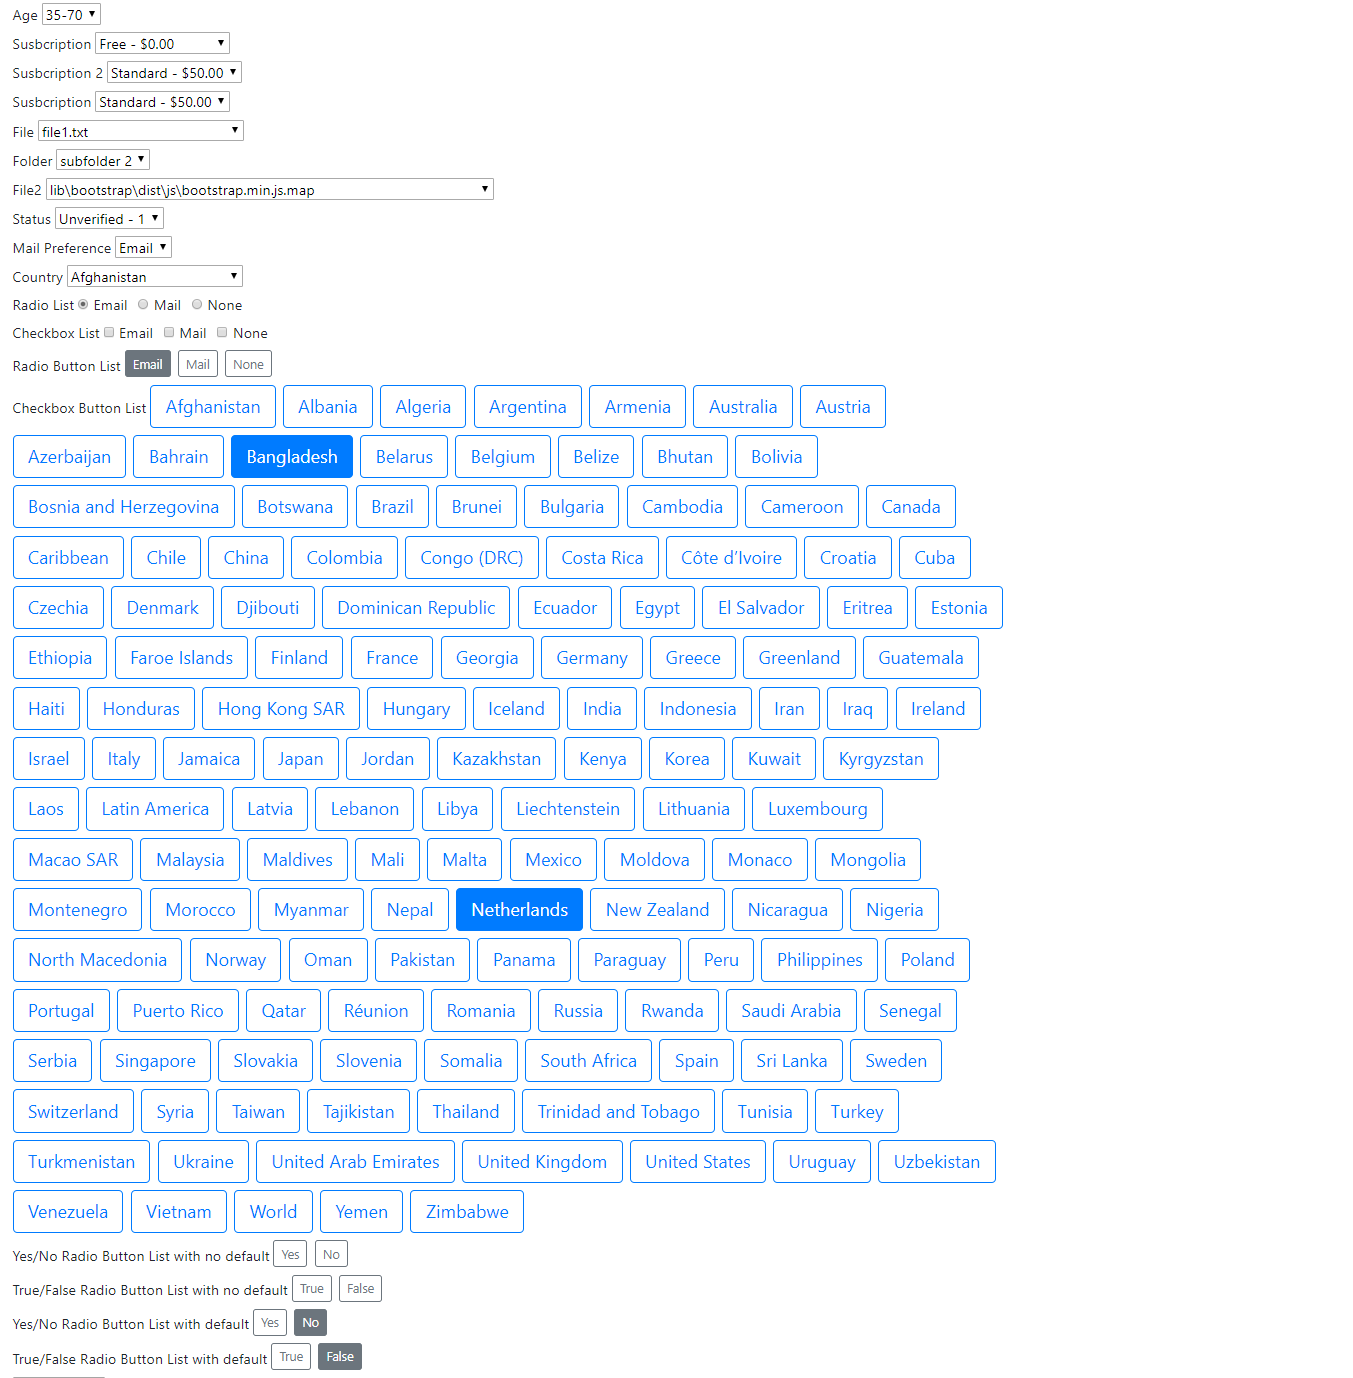
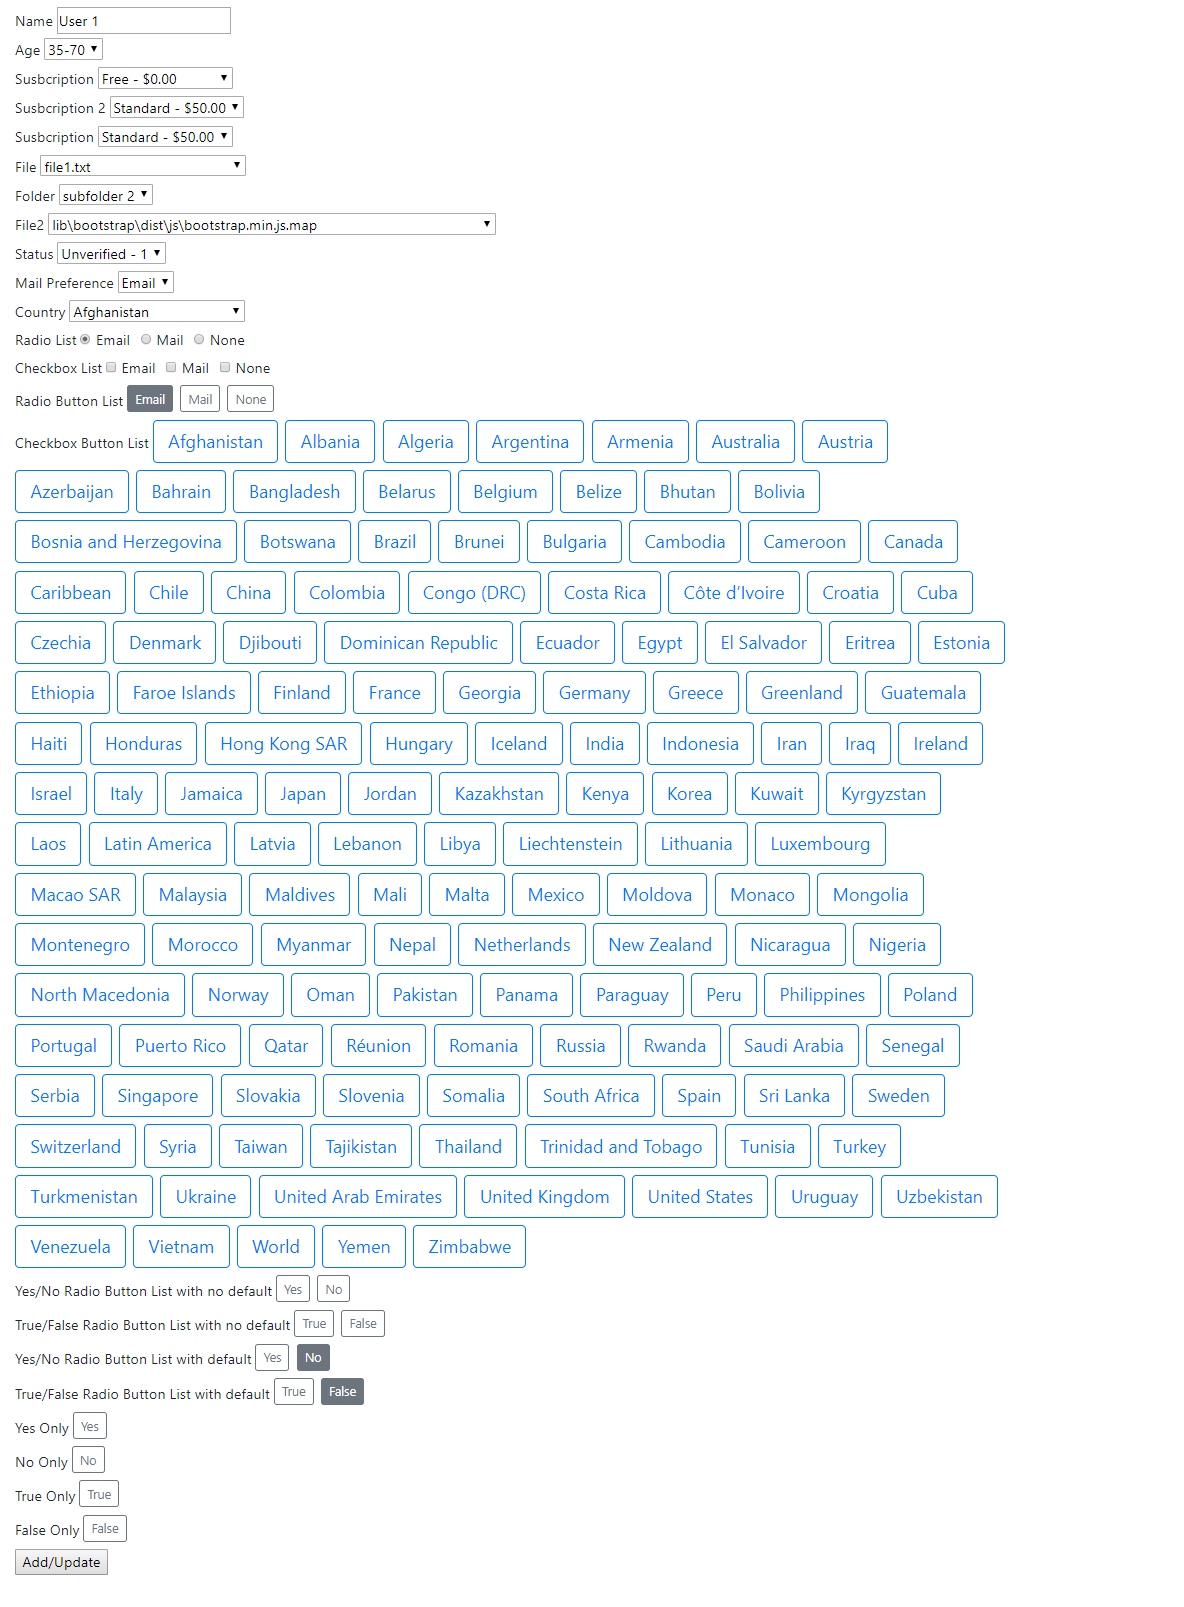
changes

Changed region(s): [[0.0, 0.0, 0.8438, 1.0], [0.6875, 0.2496, 0.75, 0.2808], [0.6875, 0.8425, 0.7188, 0.8737]]

diff --git a/src/AspNetCore.Mvc.SelectList/TagHelpers/RadioCheckboxListTagHelper.cs b/src/AspNetCore.Mvc.SelectList/TagHelpers/RadioCheckboxListTagHelper.cs
@@ -63,6 +63,9 @@ namespace AspNetCore.Mvc.SelectList.TagHelpers
         [HtmlAttributeName("multiple")]
         public bool Multiple { get; set; } = false;
 
+        [HtmlAttributeName("checkbox")]
+        public bool Checkbox { get; set; } = false;
+
         /// <summary>
         /// The name of the &lt;input&gt; element.
         /// </summary>
@@ -145,7 +148,7 @@ namespace AspNetCore.Mvc.SelectList.TagHelpers
 
             if (For == null)
             {
-                if (_allowMultiple || Multiple)
+                if (_allowMultiple || Multiple || Checkbox)
                 {
                     var tagBuilder = SelectListHtmlGenerator.GenerateCheckboxValueList(
                     ViewContext,
@@ -192,7 +195,7 @@ namespace AspNetCore.Mvc.SelectList.TagHelpers
                 };
             }
 
-            if (_allowMultiple)
+            if (_allowMultiple || Multiple || Checkbox)
             {
                 var tagBuilder = SelectListHtmlGenerator.GenerateCheckboxValueList(
                 ViewContext,

diff --git a/src/AspNetCore.Mvc.SelectList/HtmlHelperExtensions.cs b/src/AspNetCore.Mvc.SelectList/HtmlHelperExtensions.cs
@@ -372,10 +372,8 @@ namespace AspNetCore.Mvc.SelectList
             }
         }
 
-        public static IHtmlContent RadioOrCheckboxList(this IHtmlHelper htmlHelper, string propertyName, bool inline = true, object divHtmlAttributes = null, object inputHtmlAttributes = null, object labelHtmlAttributes = null)
+        public static IHtmlContent RadioOrCheckboxList(this IHtmlHelper htmlHelper, string propertyName, bool inline = true, IEnumerable<SelectListItem> items = null, object divHtmlAttributes = null, object inputHtmlAttributes = null, object labelHtmlAttributes = null)
         {
-            var items = htmlHelper.SelectList(propertyName);
-
             ModelMetadata metadata = ExpressionMetadataProvider.FromStringExpression(propertyName, htmlHelper.ViewData, htmlHelper.MetadataProvider).Metadata;
 
             if (metadata.IsEnumerableType)

diff --git a/src/AspNetCore.Mvc.SelectList/TagHelpers/RadioCheckboxButtonListTagHelper.cs b/src/AspNetCore.Mvc.SelectList/TagHelpers/RadioCheckboxButtonListTagHelper.cs
@@ -64,6 +64,9 @@ namespace AspNetCore.Mvc.SelectList.TagHelpers
         [HtmlAttributeName("multiple")]
         public bool Multiple { get; set; } = false;
 
+        [HtmlAttributeName("checkbox")]
+        public bool Checkbox { get; set; } = false;
+
         /// <summary>
         /// The name of the &lt;input&gt; element.
         /// </summary>
@@ -194,7 +197,7 @@ namespace AspNetCore.Mvc.SelectList.TagHelpers
                 };
             }
 
-            if (_allowMultiple)
+            if (_allowMultiple || Multiple || Checkbox)
             {
                 var tagBuilder = SelectListHtmlGenerator.GenerateCheckboxValueButtonList(
                 ViewContext,

diff --git a/examples/Example/Data/Customer.cs b/examples/Example/Data/Customer.cs
@@ -95,5 +95,21 @@ namespace Example.Data
         [Display(Name = "True/False Radio Button List with default")]
         [SelectListTrueFalse]
         public bool TrueFalseDefault { get; set; }
+
+        [Display(Name = "Yes Only")]
+        [SelectListYes]
+        public bool Yes { get; set; }
+
+        [Display(Name = "No Only")]
+        [SelectListNo]
+        public bool No { get; set; }
+
+        [Display(Name = "True Only")]
+        [SelectListTrue]
+        public bool True { get; set; }
+
+        [Display(Name = "False Only")]
+        [SelectListFalse]
+        public bool False { get; set; }
     }
 }

diff --git a/src/AspNetCore.Mvc.SelectList/SelectListOptionAttribute.cs b/src/AspNetCore.Mvc.SelectList/SelectListOptionAttribute.cs
@@ -1,0 +1,17 @@
+namespace AspNetCore.Mvc.SelectList
+{
+    public class SelectListOptionAttribute : SelectListOptionsAttribute
+    {
+        public SelectListOptionAttribute(string text)
+            :this(text, "true")
+        {
+
+        }
+
+        public SelectListOptionAttribute(string text, string value)
+            :base(new object[] { text }, new object[] { value })
+        {
+
+        }  
+    }
+}

diff --git a/src/AspNetCore.Mvc.SelectList/SelectListFalseAttribute.cs b/src/AspNetCore.Mvc.SelectList/SelectListFalseAttribute.cs
@@ -1,0 +1,14 @@
+using System;
+using System.Collections.Generic;
+using System.Text;
+
+namespace AspNetCore.Mvc.SelectList
+{
+    public class SelectListFalseAttribute : SelectListOptionsAttribute
+    {
+        public SelectListFalseAttribute()
+        : base(new object[] { "False" }, new object[] { "true" })
+        {
+        }
+    }
+}

diff --git a/src/AspNetCore.Mvc.SelectList/SelectListTrueAttribute.cs b/src/AspNetCore.Mvc.SelectList/SelectListTrueAttribute.cs
@@ -1,0 +1,14 @@
+using System;
+using System.Collections.Generic;
+using System.Text;
+
+namespace AspNetCore.Mvc.SelectList
+{
+    public class SelectListTrueAttribute : SelectListOptionsAttribute
+    {
+        public SelectListTrueAttribute()
+        : base(new object[] { "True" }, new object[] { "true" })
+        {
+        }
+    }
+}

diff --git a/src/AspNetCore.Mvc.SelectList/SelectListYesAttribute.cs b/src/AspNetCore.Mvc.SelectList/SelectListYesAttribute.cs
@@ -1,0 +1,14 @@
+using System;
+using System.Collections.Generic;
+using System.Text;
+
+namespace AspNetCore.Mvc.SelectList
+{
+    public class SelectListYesAttribute : SelectListOptionsAttribute
+    {
+        public SelectListYesAttribute()
+        : base(new object[] { "Yes" }, new object[] { "true" })
+        {
+        }
+    }
+}

diff --git a/src/AspNetCore.Mvc.SelectList/SelectListNoAttribute.cs b/src/AspNetCore.Mvc.SelectList/SelectListNoAttribute.cs
@@ -1,0 +1,14 @@
+using System;
+using System.Collections.Generic;
+using System.Text;
+
+namespace AspNetCore.Mvc.SelectList
+{
+    public class SelectListNoAttribute : SelectListOptionsAttribute
+    {
+        public SelectListNoAttribute()
+        : base(new object[] { "No" }, new object[] { "true" })
+        {
+        }
+    }
+}

diff --git a/README.md b/README.md
@@ -151,6 +151,22 @@ public class Customer
 	[Display(Name = "True/False Radio Button List with default")]
 	[SelectListTrueFalse]
 	public bool TrueFalseDefault { get; set; }
+
+	[Display(Name = "Yes Only")]
+	[SelectListYes]
+	public bool Yes { get; set; }
+
+	[Display(Name = "No Only")]
+	[SelectListNo]
+	public bool No { get; set; }
+
+	[Display(Name = "True Only")]
+	[SelectListTrue]
+	public bool True { get; set; }
+
+	[Display(Name = "False Only")]
+	[SelectListFalse]
+	public bool False { get; set; }
 }
 ```
 #### View Example
@@ -234,6 +250,22 @@ public class Customer
 	<label asp-for="TrueFalseDefault"></label>
 	<radio-checkbox-button-list asp-for="TrueFalseDefault"></radio-checkbox-button-list>
 	<span asp-validation-for="TrueFalseDefault" class="text-danger"></span>
+    <br />
+	<label asp-for="Yes"></label>
+	<radio-checkbox-button-list asp-for="Yes" checkbox="true"></radio-checkbox-button-list>
+	<span asp-validation-for="Yes" class="text-danger"></span>
+	<br />
+	<label asp-for="No"></label>
+	<radio-checkbox-button-list asp-for="No" checkbox="true"></radio-checkbox-button-list>
+	<span asp-validation-for="No" class="text-danger"></span>
+	<br />
+	<label asp-for="True"></label>
+	<radio-checkbox-button-list asp-for="True" checkbox="true"></radio-checkbox-button-list>
+	<span asp-validation-for="True" class="text-danger"></span>
+	<br />
+	<label asp-for="False"></label>
+	<radio-checkbox-button-list asp-for="False" checkbox="true"></radio-checkbox-button-list>
+	<span asp-validation-for="False" class="text-danger"></span>
 	<br />
 	<button type="submit">Add/Update</button>
 </form>
@@ -304,7 +336,12 @@ public class SelectListCustomAttribute : SelectListAttribute
 | SelectListFolderAttribute        | Specify physical, Content Root virtual or Web Root virtual path such as "~/files/" |
 | SelectListCountryAttribute       | Lists Countries                                                                    |
 | SelectListTrueFalseAttribute     | True and False options binding to boolean or boolean?                              |
+| SelectListTrueAttribute          | True option binding to boolean or boolean?                                         |
+| SelectListFalseAttribute         | False option binding to boolean or boolean?                                        |
 | SelectListYesNoAttribute         | Yes and No options binding to boolean or boolean?                                  |
+| SelectListYesttribute            | Yes option binding to boolean or boolean?                                          |
+| SelectListNoAttribute            | No options binding to boolean or boolean?                                          |
+
 
 ## Tag Helpers
 | TagHelper                  | Description                                                                                              |
